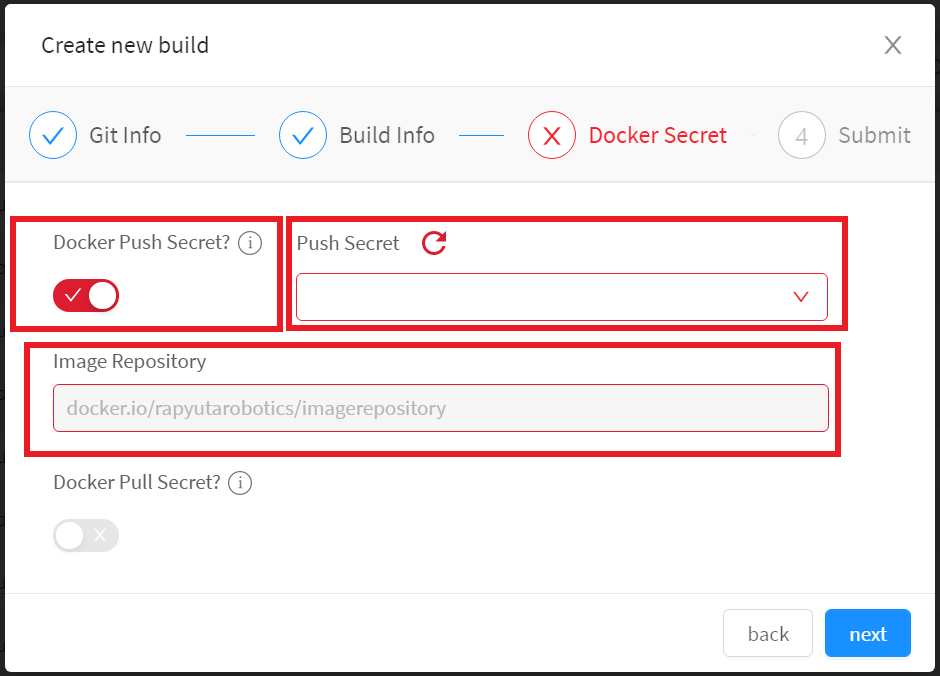
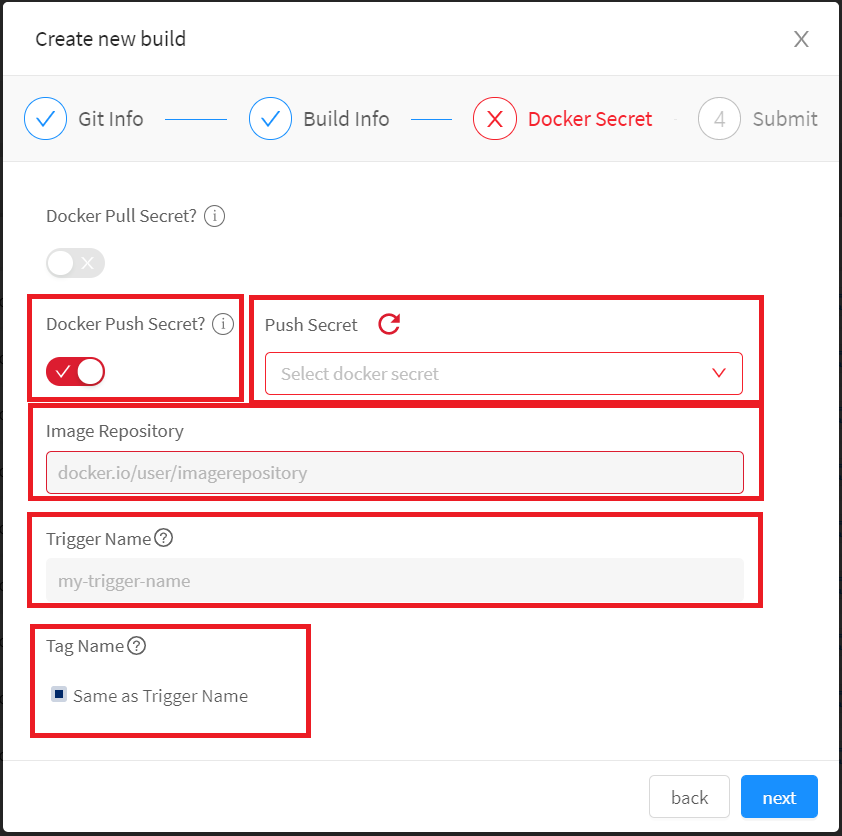
Updated catkin image for trigger/tag name

diff --git a/hugo/content/3_how-tos/33_software-development/331_create-builds.md b/hugo/content/3_how-tos/33_software-development/331_create-builds.md
@@ -75,7 +75,14 @@ To create a build using Catkin recipe, do the following.
 
     c. From the **Push secret** drop-down menu, select the secret for the repository. If you have not created any secret for the repository, [create a secret](/how-to-guides/account-management/setup-private-docker-registry/#creating-a-docker-secret).
 
-    d. Click **Next**. The build is created.
+    d. Optionally, in the **Trigger Name** field, type a name for the trigger. The trigger name can be used to identify the build requests. 
+
+    e. If you have enabled the **Docker Push Secret** toggle button, you can also add a tag name to the build. The tag name is an optional field and can be used as a docker tag in the external docker registry. The trigger name and the tag name can be either the same or different. If you want to have a different tag name, de-select the **Same as Trigger Name** field and type a tag name in the **Tag Name** field.
+ {{%notice note%}}
+  **Tag Name** field is only available if the **Docker Push Secret** toggle button is enabled.
+  {{%/notice%}}
+
+    f. Click **Next**. The build is created.
 
   ![goo](/images/core-concepts/builds/build-creation/catkin-push-secret.png?classes=border,shadow&width=30pc)
 

diff --git a/hugo/content/8_release-updates/2021/march.md b/hugo/content/8_release-updates/2021/march.md
@@ -70,7 +70,7 @@ Welcome to the March 24, 2021 release of the rapyuta.io platform. There are sign
 
 * **Build Page Improvement**
 
-    You can add a trigger/tag name while creating or triggering a build using the docker recipe. The trigger/tag name can be used to identify the build requests. For more information, [click here](/3_how-tos/33_software-development/331_create-builds/#creating-build-by-docker-recipe).
+    You can add a trigger/tag name while creating or triggering a build. The trigger/tag name can be used to identify the build requests. For more information, [click here](/3_how-tos/33_software-development/331_create-builds/#creating-build-by-docker-recipe).
 
 
 
